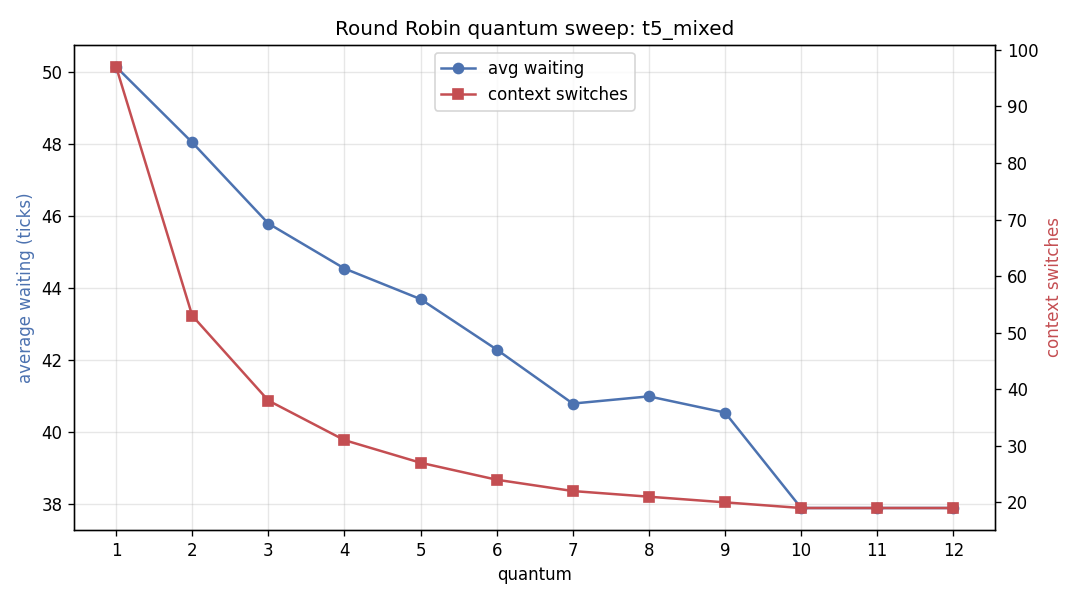
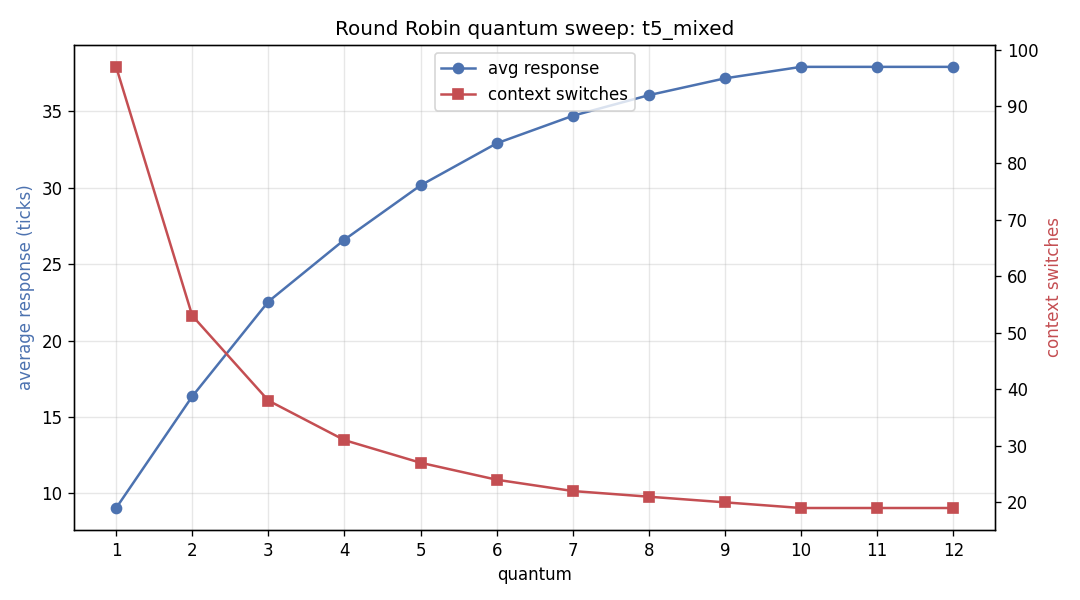
Plot response time in sweep chart, not waiting

diff --git a/tools/plot.py b/tools/plot.py
@@ -175,17 +175,17 @@ def plot_sweep(outdir, path_in):
     rows = read_csv(path_in)
     trace = rows[0]["trace"]
     q = [int(r["quantum"]) for r in rows]
-    wait = [float(r["avg_waiting"]) for r in rows]
+    resp = [float(r["avg_response"]) for r in rows]
     sw = [int(r["context_switches"]) for r in rows]
 
     fig, ax1 = plt.subplots(figsize=(9, 5))
     ax2 = ax1.twinx()
 
-    ax1.plot(q, wait, marker="o", color="#4c72b0", label="avg waiting")
+    ax1.plot(q, resp, marker="o", color="#4c72b0", label="avg response")
     ax2.plot(q, sw, marker="s", color="#c44e52", label="context switches")
 
     ax1.set_xlabel("quantum")
-    ax1.set_ylabel("average waiting (ticks)", color="#4c72b0")
+    ax1.set_ylabel("average response (ticks)", color="#4c72b0")
     ax2.set_ylabel("context switches", color="#c44e52")
     ax1.set_xticks(q)
     ax1.grid(alpha=0.3)
